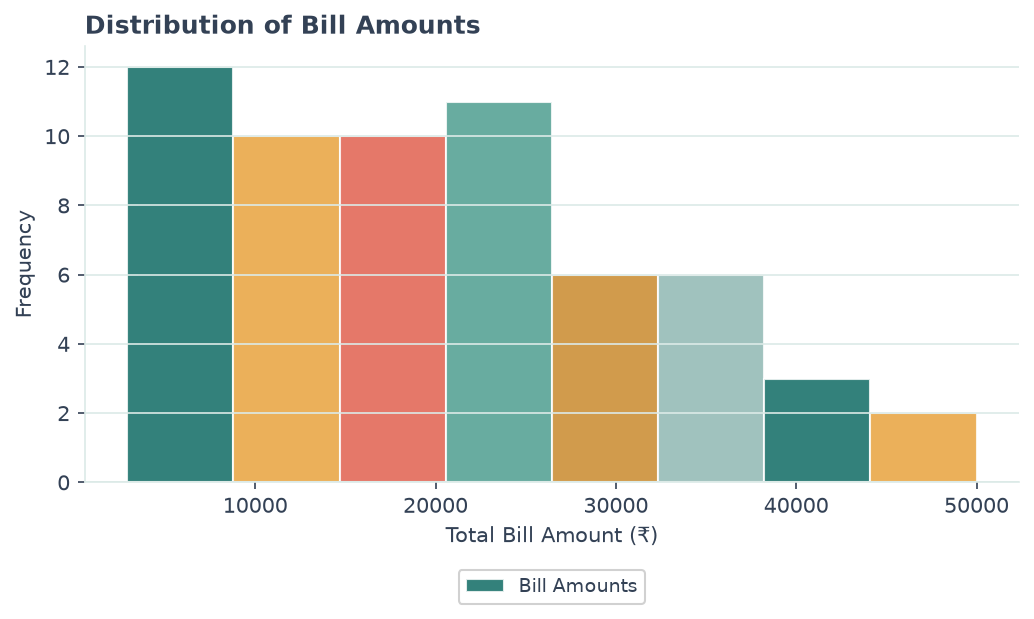
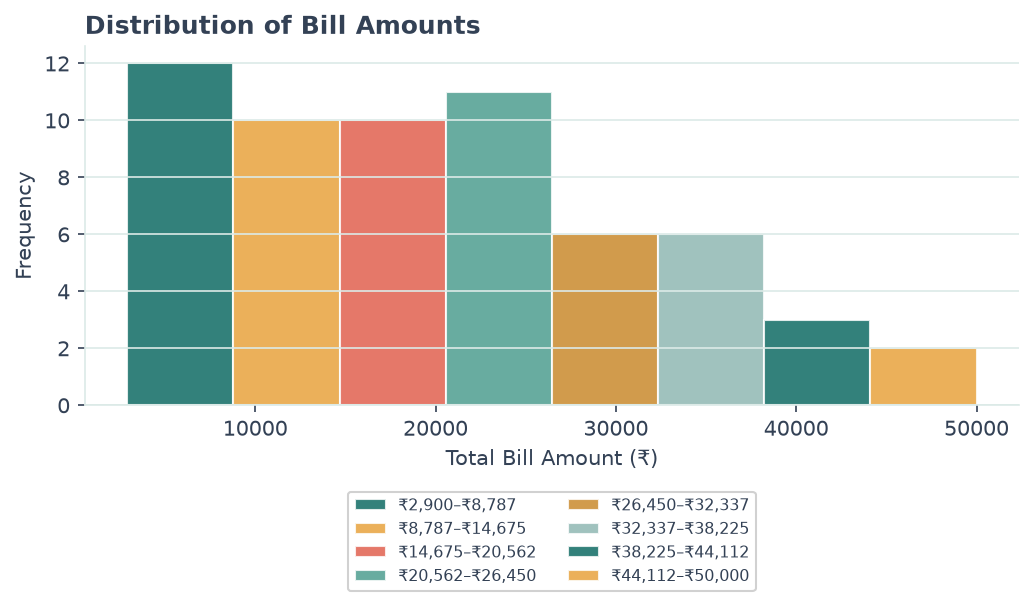
Fix histogram legend to show bin ranges

diff --git a/modules/analytics.py b/modules/analytics.py
@@ -410,10 +410,16 @@ def build_bill_amount_histogram():
                                     edgecolor="white", alpha=0.85)
         for i, patch in enumerate(patches):
             patch.set_facecolor(CHART_COLORS[i % len(CHART_COLORS)])
+        # Build legend showing each bin's range
+        bin_labels = []
+        for i in range(len(bins) - 1):
+            lo = int(bins[i])
+            hi = int(bins[i + 1])
+            bin_labels.append(f"₹{lo:,}–₹{hi:,}")
+        ax.legend(patches, bin_labels, loc="upper center",
+                  bbox_to_anchor=(0.5, -0.22), ncol=2, fontsize=7.5, framealpha=0.9)
         ax.set_xlabel("Total Bill Amount (₹)", fontsize=10)
         ax.set_ylabel("Frequency", fontsize=10)
-        ax.legend([patches[0]], ["Bill Amounts"], loc="upper center",
-                  bbox_to_anchor=(0.5, -0.18), fontsize=9, framealpha=0.9)
     else:
         ax.text(0.5, 0.5, "No billing data yet",
                 ha="center", va="center", color=SLATE)